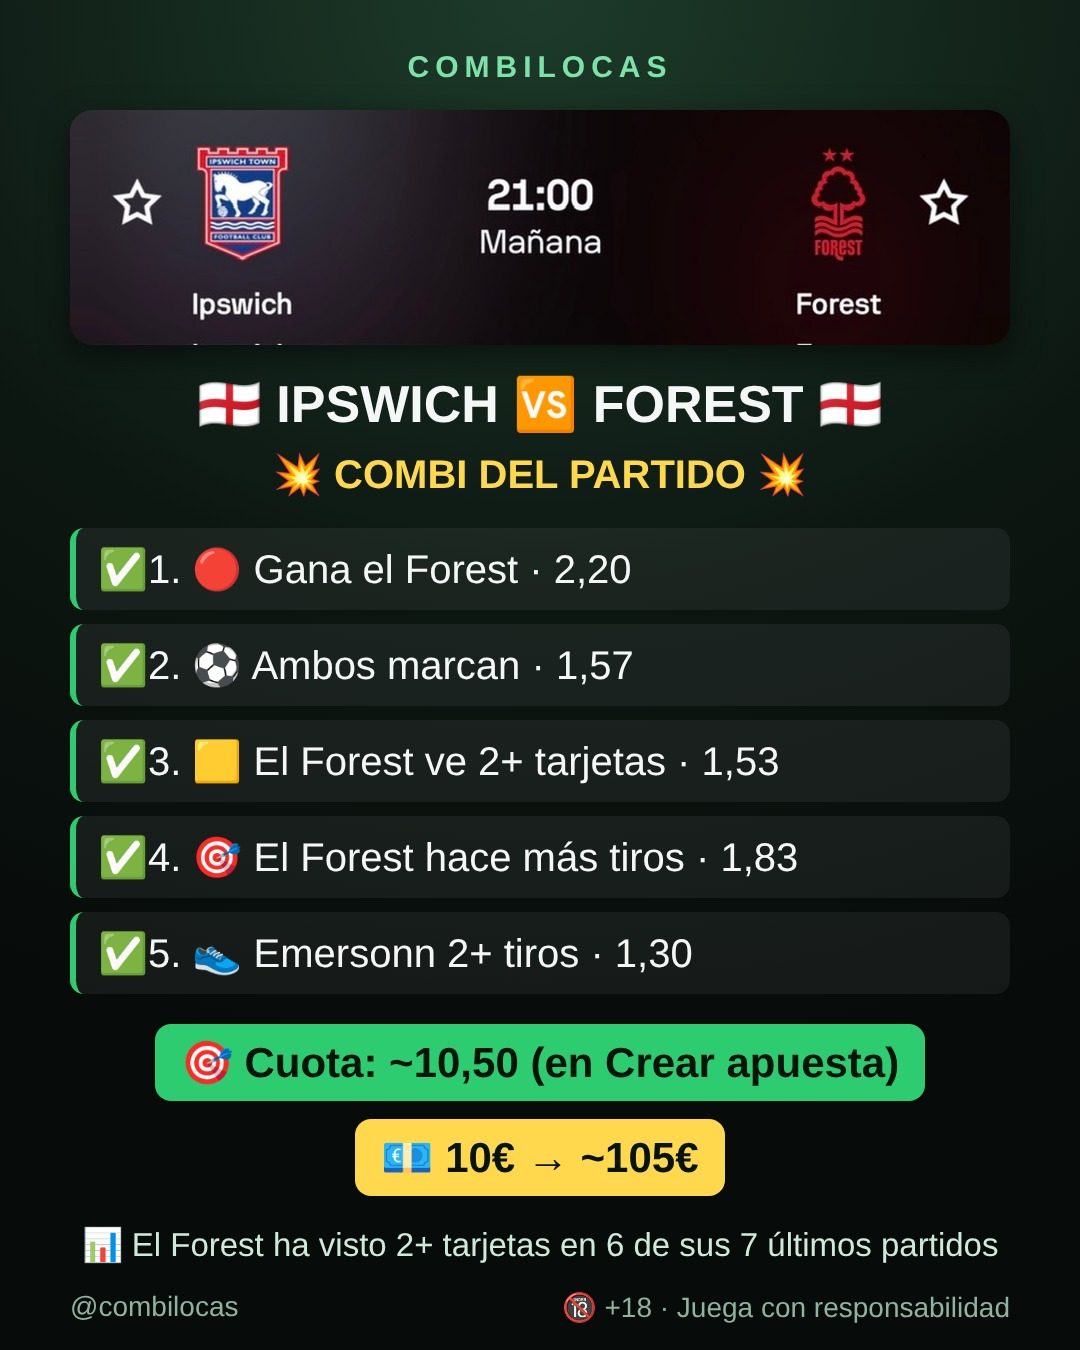
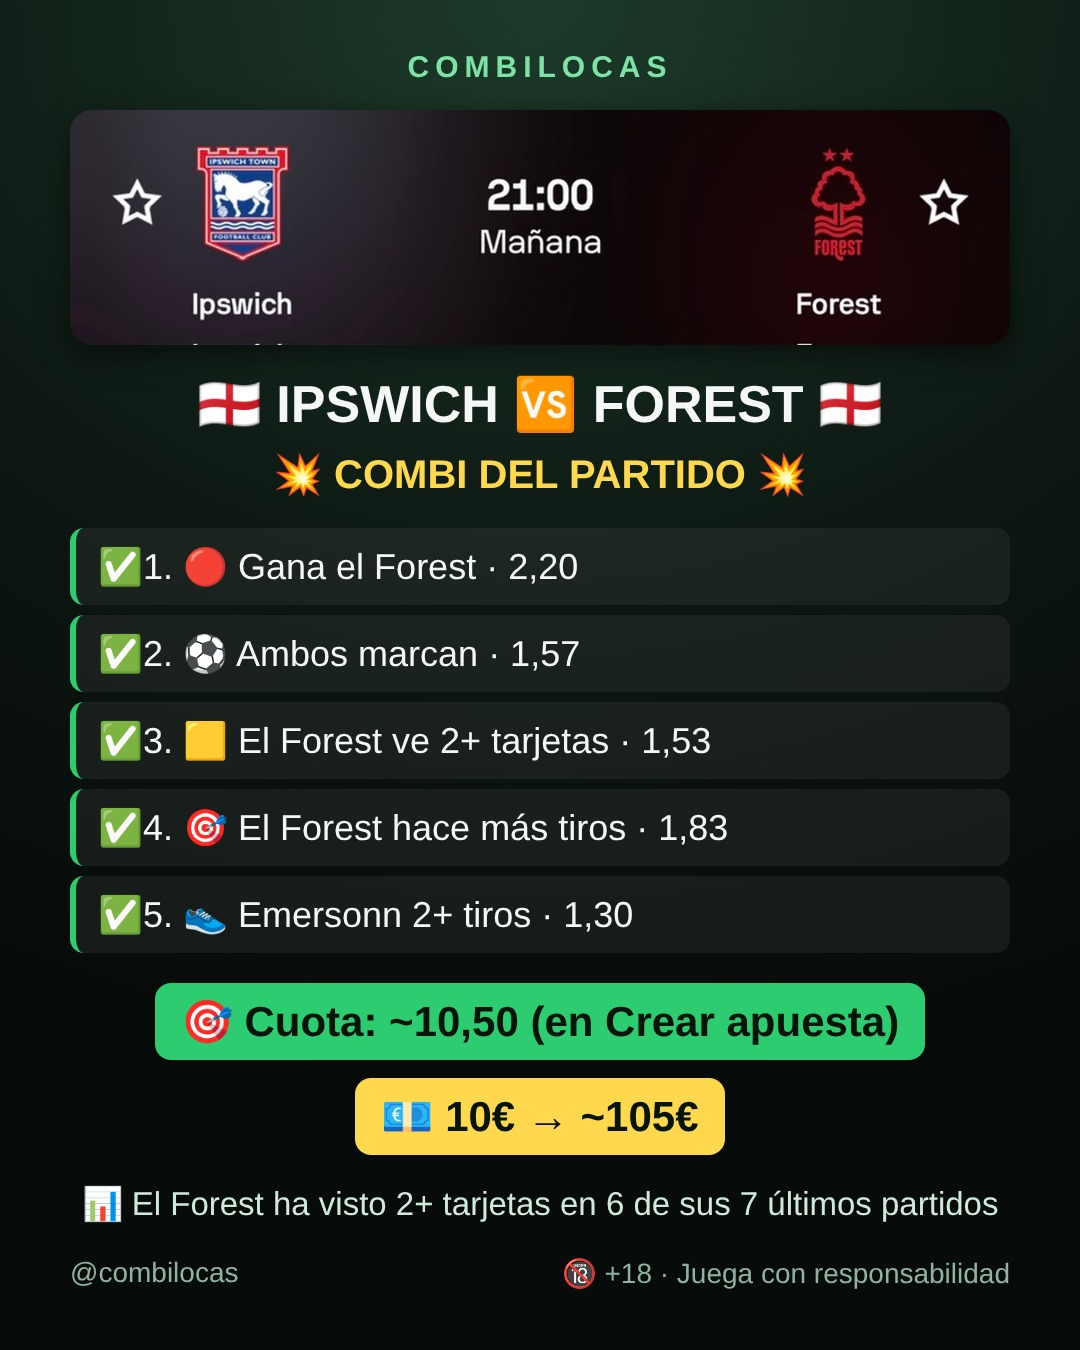
Imágenes con escudos: letra algo más pequeña para que quepa el pie
Claude-Session: https://claude.ai/code/session_01CBqj6gALZmzC2cJhuEr7Li

diff --git a/imagenes.py b/imagenes.py
@@ -76,6 +76,9 @@ def documento(p, vertical, mostrar=None, foto_b64=None):
     if vertical:
         fl += 8
     gap = 14 if n <= 7 else 10
+    if foto_b64 and not vertical:   # con foto de escudos hay menos sitio en 1080x1350
+        fl -= 4
+        gap = 10
     css = CSS % {"w": w, "h": h, "pad": 70 if vertical else 50, "ft": 64 if vertical else 52, "fl": fl, "gap": gap}
     total = 1 + n + 2
     ver = total if mostrar is None else mostrar
